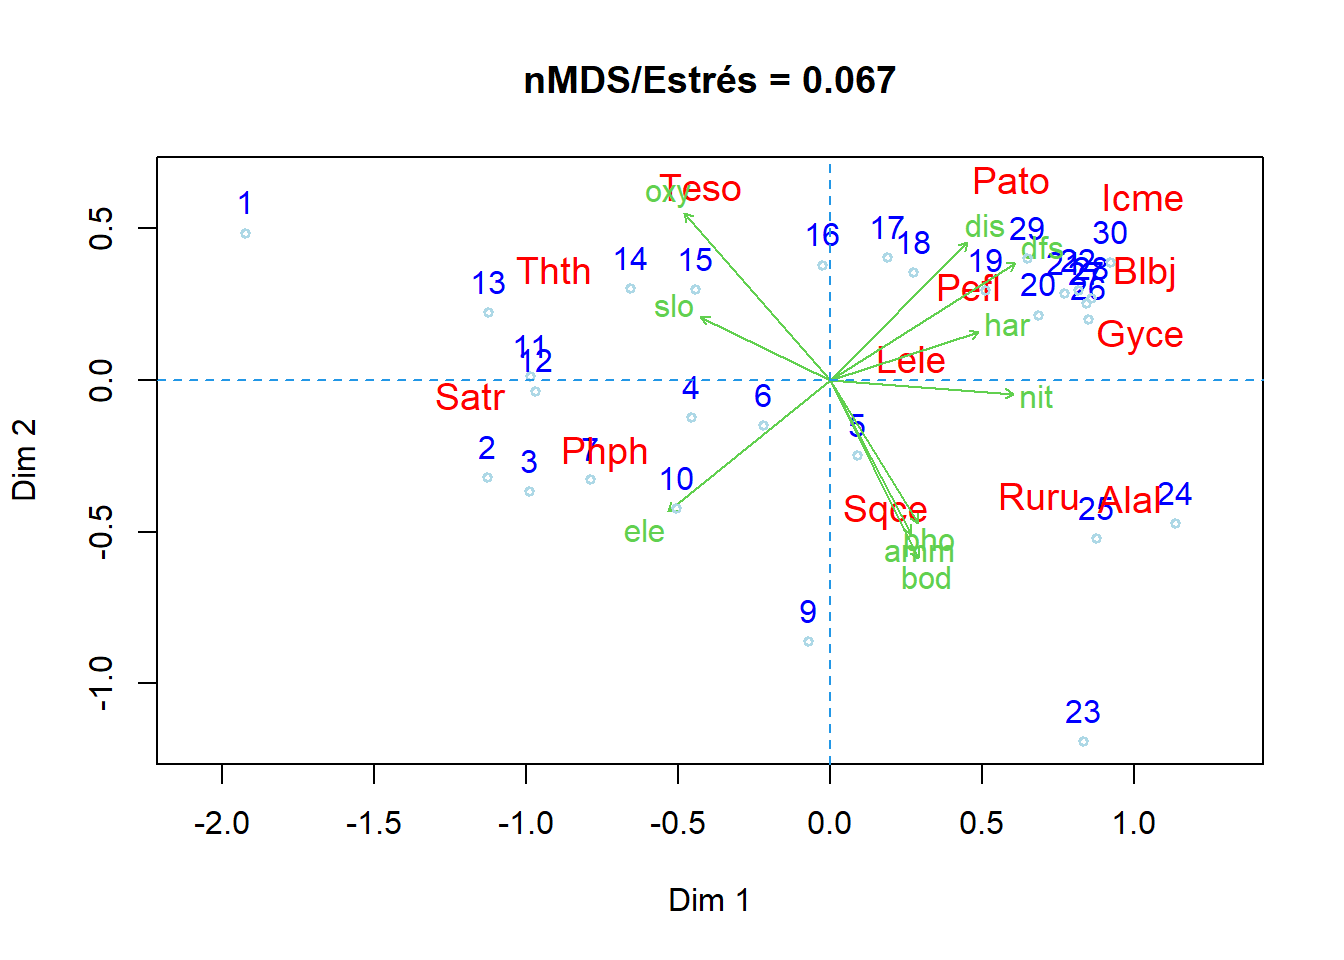
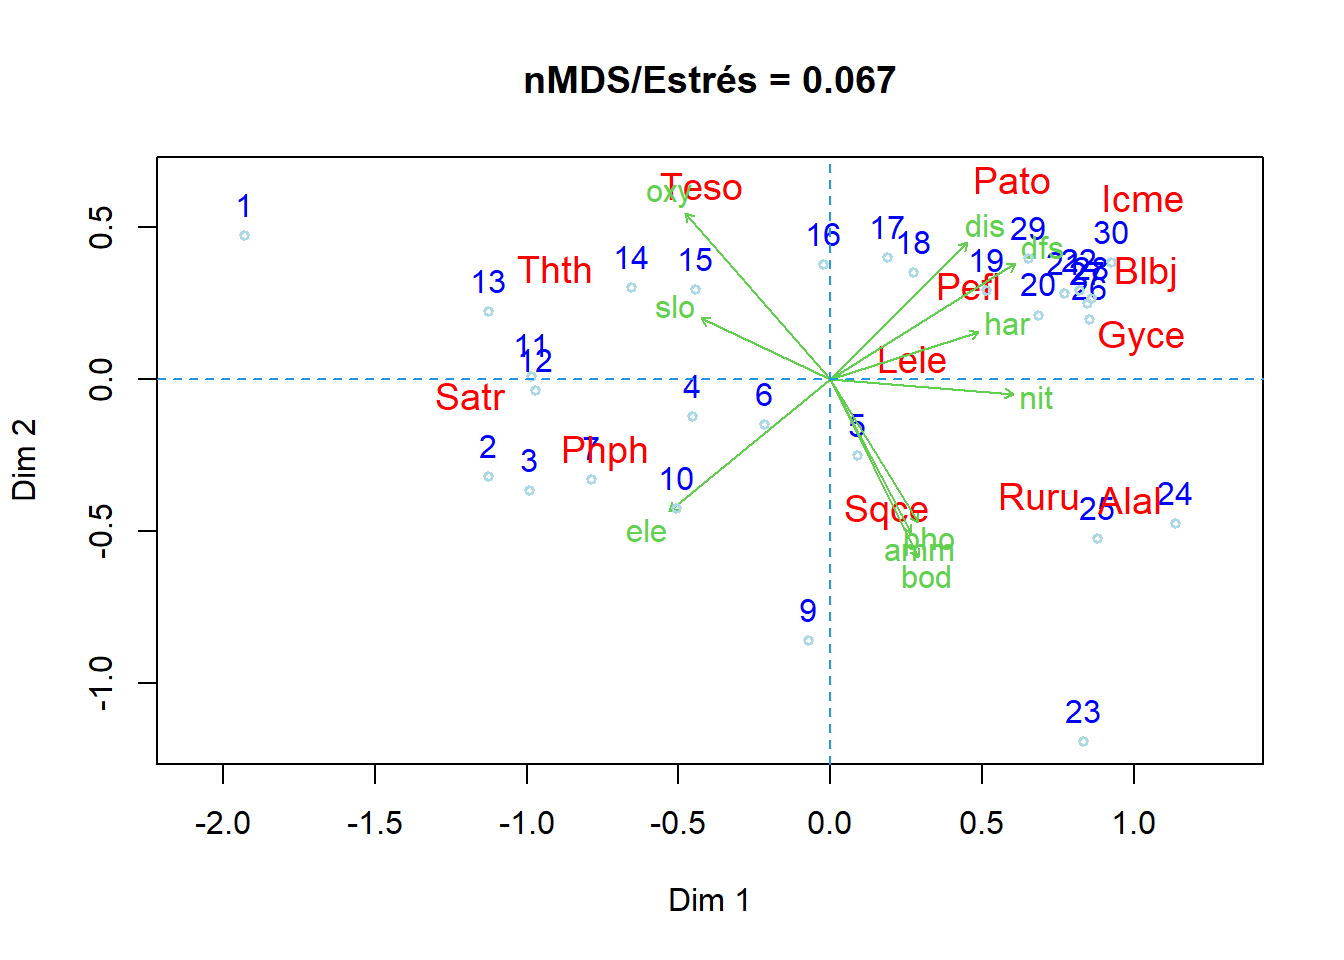
Add files via upload

diff --git a/Ordenación_nmds2.html b/Ordenación_nmds2.html
@@ -318,6 +318,7 @@ code span.wa { color: #60a0b0; font-weight: bold; font-style: italic; } /* Warni
 
 
 
+<p><img src="https://javier-2712.github.io/Multivar_Msc_24/Ordenaci%C3%B3n_nmds2_files/figure-html/fig-fig9-1.png" class="img-fluid"></p>
 <p><b style="color:#1f78b4;"></b></p><b style="color:#1f78b4;">
 </b><section id="exploración-gráfica-multivariada---base-peces-ríos-doubs-de-francia" class="level1"><b style="color:#1f78b4;">
 <h1>Exploración gráfica multivariada - base <em>peces ríos Doubs de Francia</em></h1>
@@ -502,10 +503,10 @@ Data:     spe.h
 Distance: bray 
 
 Dimensions: 2 
-Stress:     0.06742435 
+Stress:     0.06742361 
 Stress type 1, weak ties
-Best solution was repeated 3 times in 20 tries
-The best solution was from try 6 (random start)
+Best solution was repeated 1 time in 20 tries
+The best solution was from try 19 (random start)
 Scaling: centring, PC rotation, halfchange scaling 
 Species: expanded scores based on 'spe.h' </code></pre>
 </div>
@@ -568,17 +569,17 @@ Species: expanded scores based on 'spe.h' </code></pre>
 ***VECTORS
 
        NMDS1    NMDS2     r2 Pr(&gt;r)    
-dfs  0.84655  0.53231 0.7606  0.001 ***
-ele -0.77677 -0.62978 0.6918  0.001 ***
-slo -0.89921  0.43752 0.3286  0.012 *  
-dis  0.70659  0.70762 0.5985  0.001 ***
-pH  -0.20354  0.97907 0.0194  0.772    
-har  0.95246  0.30468 0.3837  0.004 ** 
-pho  0.52531 -0.85091 0.4485  0.003 ** 
-nit  0.99708 -0.07631 0.5359  0.001 ***
-amm  0.46474 -0.88544 0.4805  0.002 ** 
-oxy -0.65858  0.75251 0.7801  0.001 ***
-bod  0.44464 -0.89571 0.6282  0.001 ***
+dfs  0.84665  0.53215 0.7605  0.001 ***
+ele -0.77624 -0.63044 0.6921  0.001 ***
+slo -0.90301  0.42963 0.3283  0.016 *  
+dis  0.70638  0.70783 0.5986  0.001 ***
+pH  -0.20067  0.97966 0.0197  0.765    
+har  0.95135  0.30812 0.3841  0.005 ** 
+pho  0.52371 -0.85189 0.4491  0.003 ** 
+nit  0.99692 -0.07848 0.5358  0.001 ***
+amm  0.46318 -0.88626 0.4812  0.001 ***
+oxy -0.65695  0.75394 0.7807  0.001 ***
+bod  0.44315 -0.89645 0.6292  0.001 ***
 ---
 Signif. codes:  0 '***' 0.001 '**' 0.01 '*' 0.05 '.' 0.1 ' ' 1
 Permutation: free
@@ -1010,12 +1011,12 @@ Number of permutations: 999</code></pre>
 <span id="cb24-5"><a href="#cb24-5" aria-hidden="true" tabindex="-1"></a><span class="fu">head</span>(coord.sit)</span></code><button title="Copiar al portapapeles" class="code-copy-button"><i class="bi"></i></button></pre></div>
 <div class="cell-output cell-output-stdout">
 <pre><code>        NMDS1      NMDS2 sitio grp
-1 -1.93562312  0.4577016     1   1
-2 -1.12782084 -0.3174819     2   1
-3 -0.99152334 -0.3627227     3   1
-4 -0.45554040 -0.1193848     4   1
-5  0.08755977 -0.2489022     5   2
-6 -0.21949488 -0.1471808     6   1</code></pre>
+1 -1.92385088  0.4866069     1   1
+2 -1.12701647 -0.3201813     2   1
+3 -0.99031681 -0.3665443     3   1
+4 -0.45596390 -0.1227134     4   1
+5  0.08822624 -0.2493031     5   2
+6 -0.21912383 -0.1487923     6   1</code></pre>
 </div>
 </div>
 <p><b style="color:#1f78b4;"></b></p><b style="color:#1f78b4;">
@@ -1030,12 +1031,12 @@ Number of permutations: 999</code></pre>
 <span id="cb26-4"><a href="#cb26-4" aria-hidden="true" tabindex="-1"></a><span class="fu">head</span>(coord.esp)</span></code><button title="Copiar al portapapeles" class="code-copy-button"><i class="bi"></i></button></pre></div>
 <div class="cell-output cell-output-stdout">
 <pre><code>          NMDS1       NMDS2 especies
-Cogo -0.8774728  0.39300796     Cogo
-Satr -1.1864015 -0.05153309     Satr
-Phph -0.7415849 -0.23547412     Phph
-Babl -0.5297357 -0.23426925     Babl
-Thth -0.9062311  0.37446569     Thth
-Teso -0.4214127  0.64593066     Teso</code></pre>
+Cogo -0.8781504  0.37972744     Cogo
+Satr -1.1838881 -0.05028689     Satr
+Phph -0.7412833 -0.24343543     Phph
+Babl -0.5295382 -0.24030034     Babl
+Thth -0.9069317  0.36079058     Thth
+Teso -0.4228252  0.63642836     Teso</code></pre>
 </div>
 </div>
 <p><b style="color:#1f78b4;"></b></p><b style="color:#1f78b4;">
@@ -1050,12 +1051,12 @@ Teso -0.4214127  0.64593066     Teso</code></pre>
 <span id="cb28-4"><a href="#cb28-4" aria-hidden="true" tabindex="-1"></a><span class="fu">head</span>(coord.amb) </span></code><button title="Copiar al portapapeles" class="code-copy-button"><i class="bi"></i></button></pre></div>
 <div class="cell-output cell-output-stdout">
 <pre><code>          NMDS1      NMDS2 amb
-dfs  0.73846382  0.4635928 dfs
-ele -0.64517436 -0.5260431 ele
-slo -0.52199094  0.2349856 slo
-dis  0.54629802  0.5480788 dis
-pH  -0.02769801  0.1399495  pH
-har  0.58879777  0.1962215 har</code></pre>
+dfs  0.73828998  0.4642978 dfs
+ele -0.64617409 -0.5235339 ele
+slo -0.51472872  0.2525439 slo
+dis  0.54670481  0.5473632 dis
+pH  -0.02842205  0.1359276  pH
+har  0.59009488  0.1878647 har</code></pre>
 </div>
 <div class="sourceCode cell-code" id="cb30"><pre class="sourceCode r code-with-copy"><code class="sourceCode r"><span id="cb30-1"><a href="#cb30-1" aria-hidden="true" tabindex="-1"></a><span class="co"># Para los casos en los que "vectors" no funcione, aplicar:</span></span>
 <span id="cb30-2"><a href="#cb30-2" aria-hidden="true" tabindex="-1"></a><span class="co"># coord.amb = as.data.frame(amb$vectors$arrows)</span></span></code><button title="Copiar al portapapeles" class="code-copy-button"><i class="bi"></i></button></pre></div>
